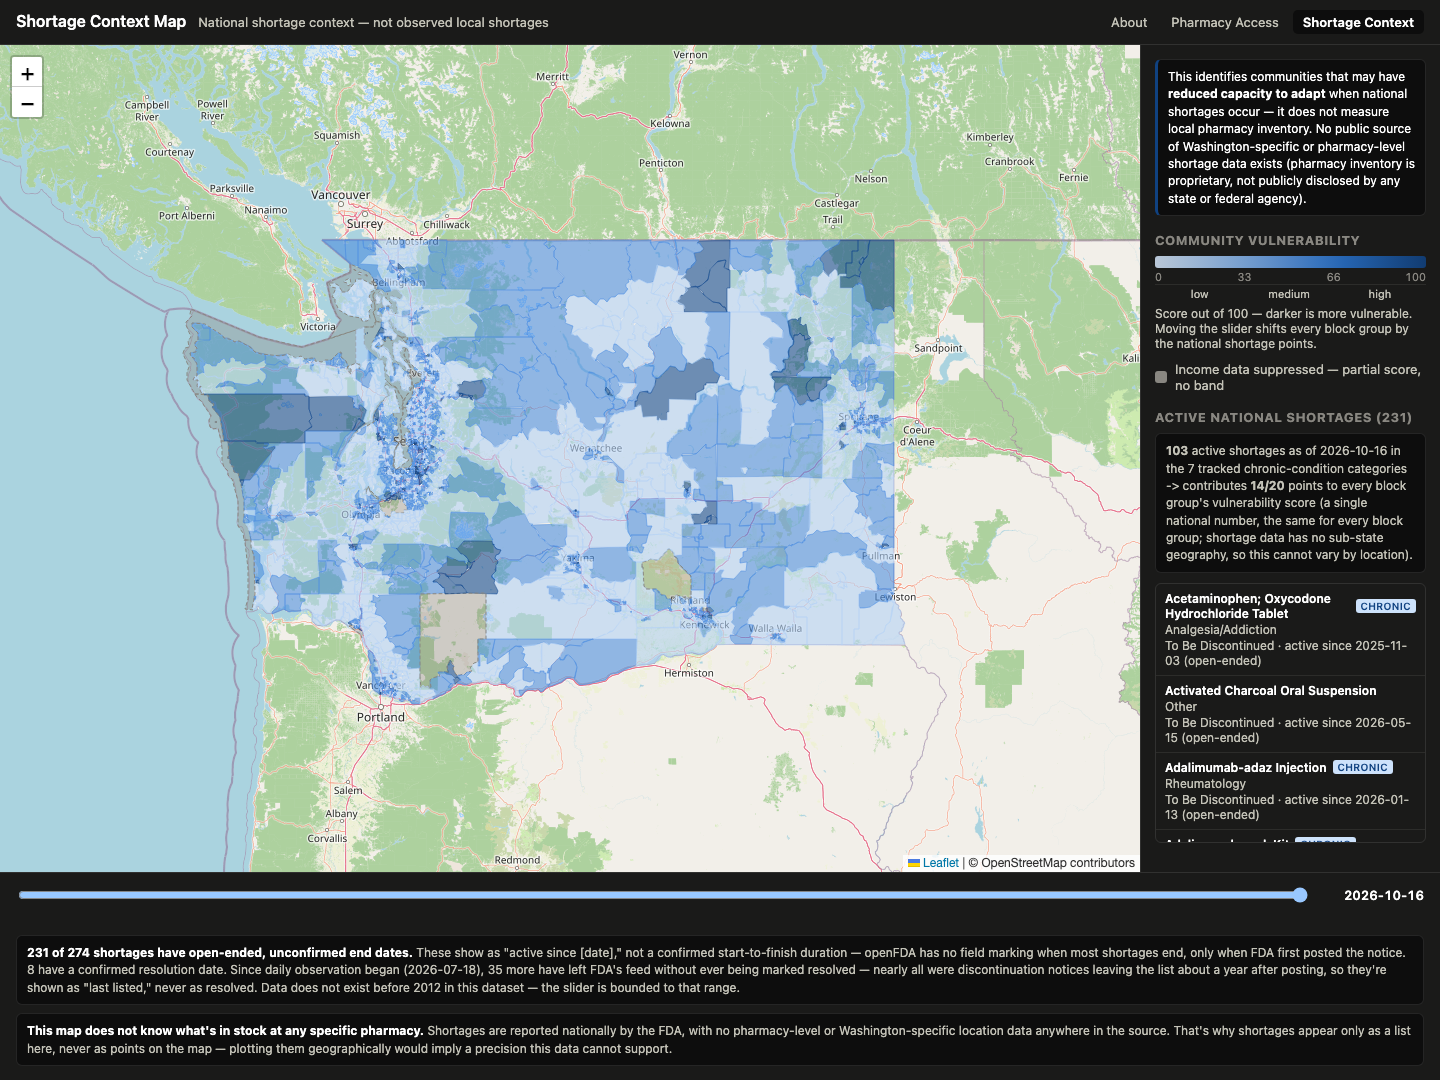
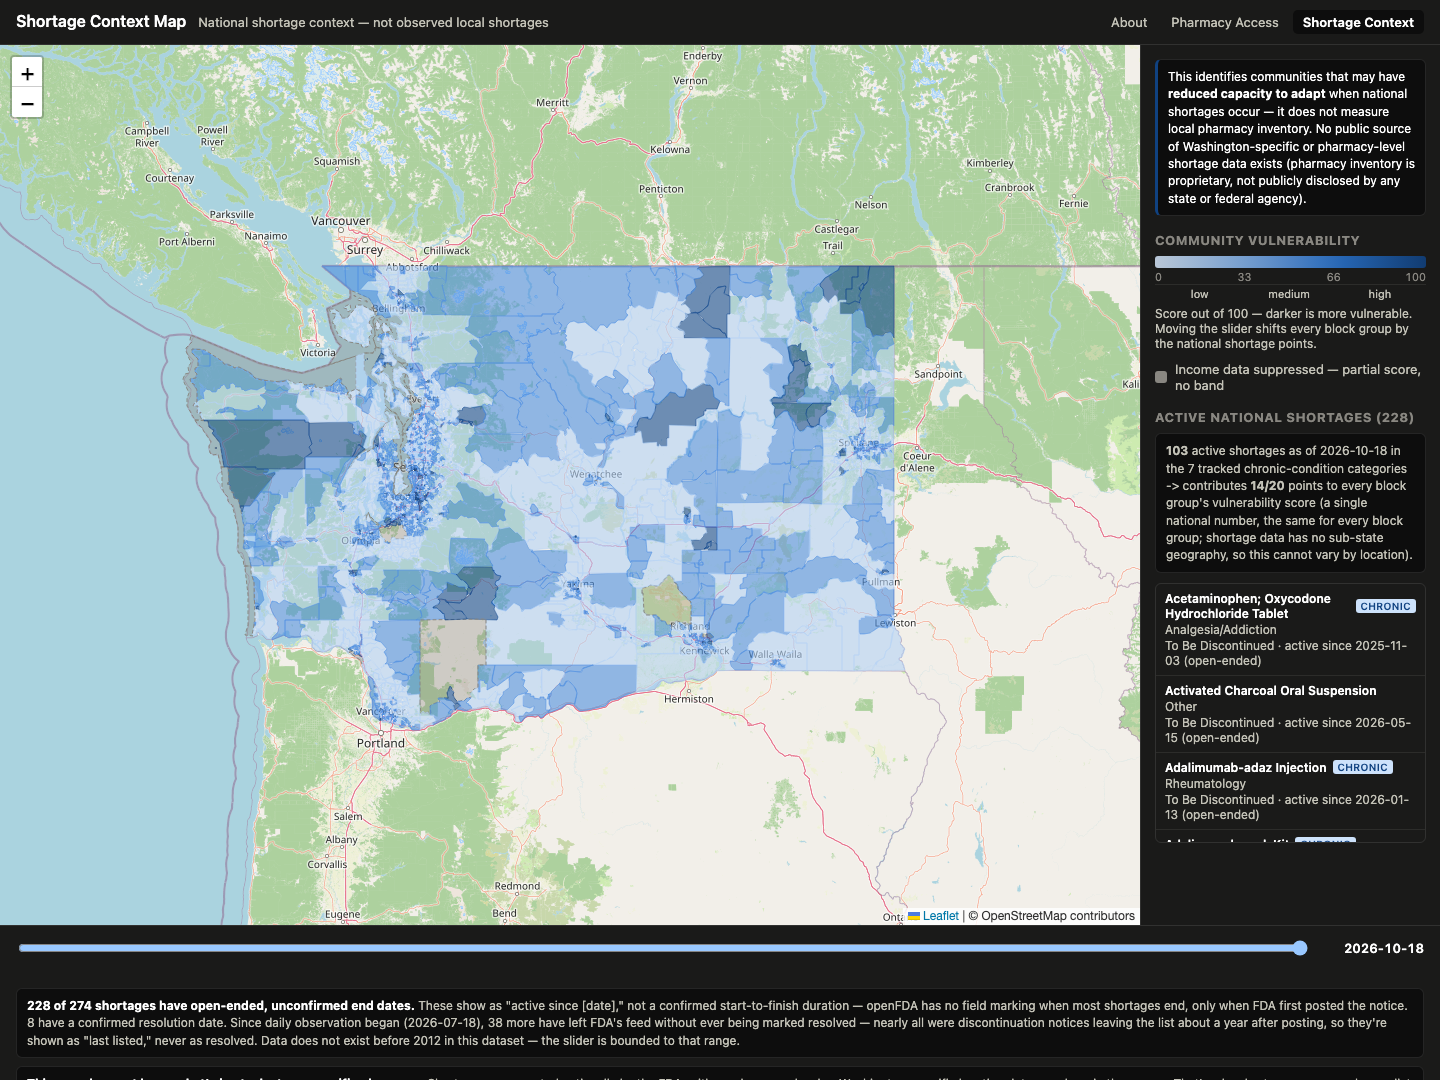
Log the taller-map layout's live verification; retake README screenshots
Live checks after df914b2 deployed, at all six sizes on both maps: the
same numbers as the local run, popups fully visible at every edge, all
slider stops agree with the API (0 of 5,311 colors mismatched), zero
console messages on all three pages. README screenshots retaken from
the live site for the new layout.

Changed region(s): [[0.0, 0.0306, 1.0, 0.9778], [0.7812, 0.55, 0.8125, 0.6722], [0.75, 0.4889, 0.7812, 0.55]]

diff --git a/DECISIONS.md b/DECISIONS.md
@@ -19,8 +19,9 @@ landing page plus `/map/pharmacy` and `/map/shortages`.
 **What's deployed:**
 - **Web app (`webapp/`)** on Render's free tier. It auto-deploys from
   `main` when files under `webapp/` change, because Render's root
-  directory is `webapp/`. The latest such change, the Day 10 copy and
-  layout pass, went live on 2026-10-16. Commits that only touch docs, `jobs/` or
+  directory is `webapp/`. The latest such change went live on
+  2026-10-18 (`df914b2`): taller maps on a normally scrolling page, with
+  scroll over the map scrolling the page. Commits that only touch docs, `jobs/` or
   the workflow don't redeploy. The instance sleeps after 15 idle
   minutes, so the first visit after that takes about a minute.
 - **Database:** Supabase Postgres + PostGIS, reached through its
@@ -2301,3 +2302,34 @@ tested locally.
   height (~50px) once as you scroll. If that is distracting, `svh`
   instead of `dvh` fixes it at the cost of a slightly shorter map once
   the toolbar hides.
+
+**Verified on the live site after the deploy** (`df914b2`; Render served
+`map.css` and `map-gestures.js` byte-identical to the repo):
+- **Measurements:** the same script at the same six sizes gives the same
+  numbers as the local run. Every map is 880 / 700 / 520 / 824 / 612 /
+  255px tall from 1920x1080 down to 667x375. The slider is visible
+  without scrolling everywhere, nothing overflows horizontally, and
+  Leaflet's size matches the container.
+  - Desktop maps measured 15px narrower here (e.g. 1125 instead of
+    1140px at 1440x900). That run's Chrome drew a classic 15px vertical
+    scrollbar, which a scrolling page now shows on desktops that use them
+    (Windows, or a Mac with a mouse). It is not overflow.
+- **Wheel, touch and slider gestures:** same results as the local table.
+- **Popups:** all four edges, all six sizes, both maps: 0px clipped. One
+  first run on the shortage map at 667x375 errored instead of measuring.
+  That was a test artifact: the touch steps before it had changed the
+  date, and the shortage page deliberately closes and unbinds every popup
+  until the new date loads. The test now waits for "loaded", and re-runs
+  at all three touch sizes on both maps pass.
+- **Sliders:** real mouse drags at all six sizes on both maps (12 runs:
+  latest, full range to the earliest date, partial, back to latest). Every
+  stop agrees with a fresh API response:
+  - pharmacy 2005-05-24 -> 4 locations, 2018-03-27 -> 1,418,
+    2026-10-18 -> 1,624;
+  - shortage 2012-01-01 -> 2 active, 2020-11-16 -> 24, 2026-10-18 -> 228,
+    with **0 of 5,311** colors mismatched at every stop.
+- **Console:** 0 messages on `/`, `/map/pharmacy` and `/map/shortages`;
+  0 in every layout and drag run.
+- **README screenshots** (`docs/`) retaken from the live site at 1440x1080:
+  the map is now 880px tall instead of 653 / 827, with the slider and the
+  start of the notes below it.
